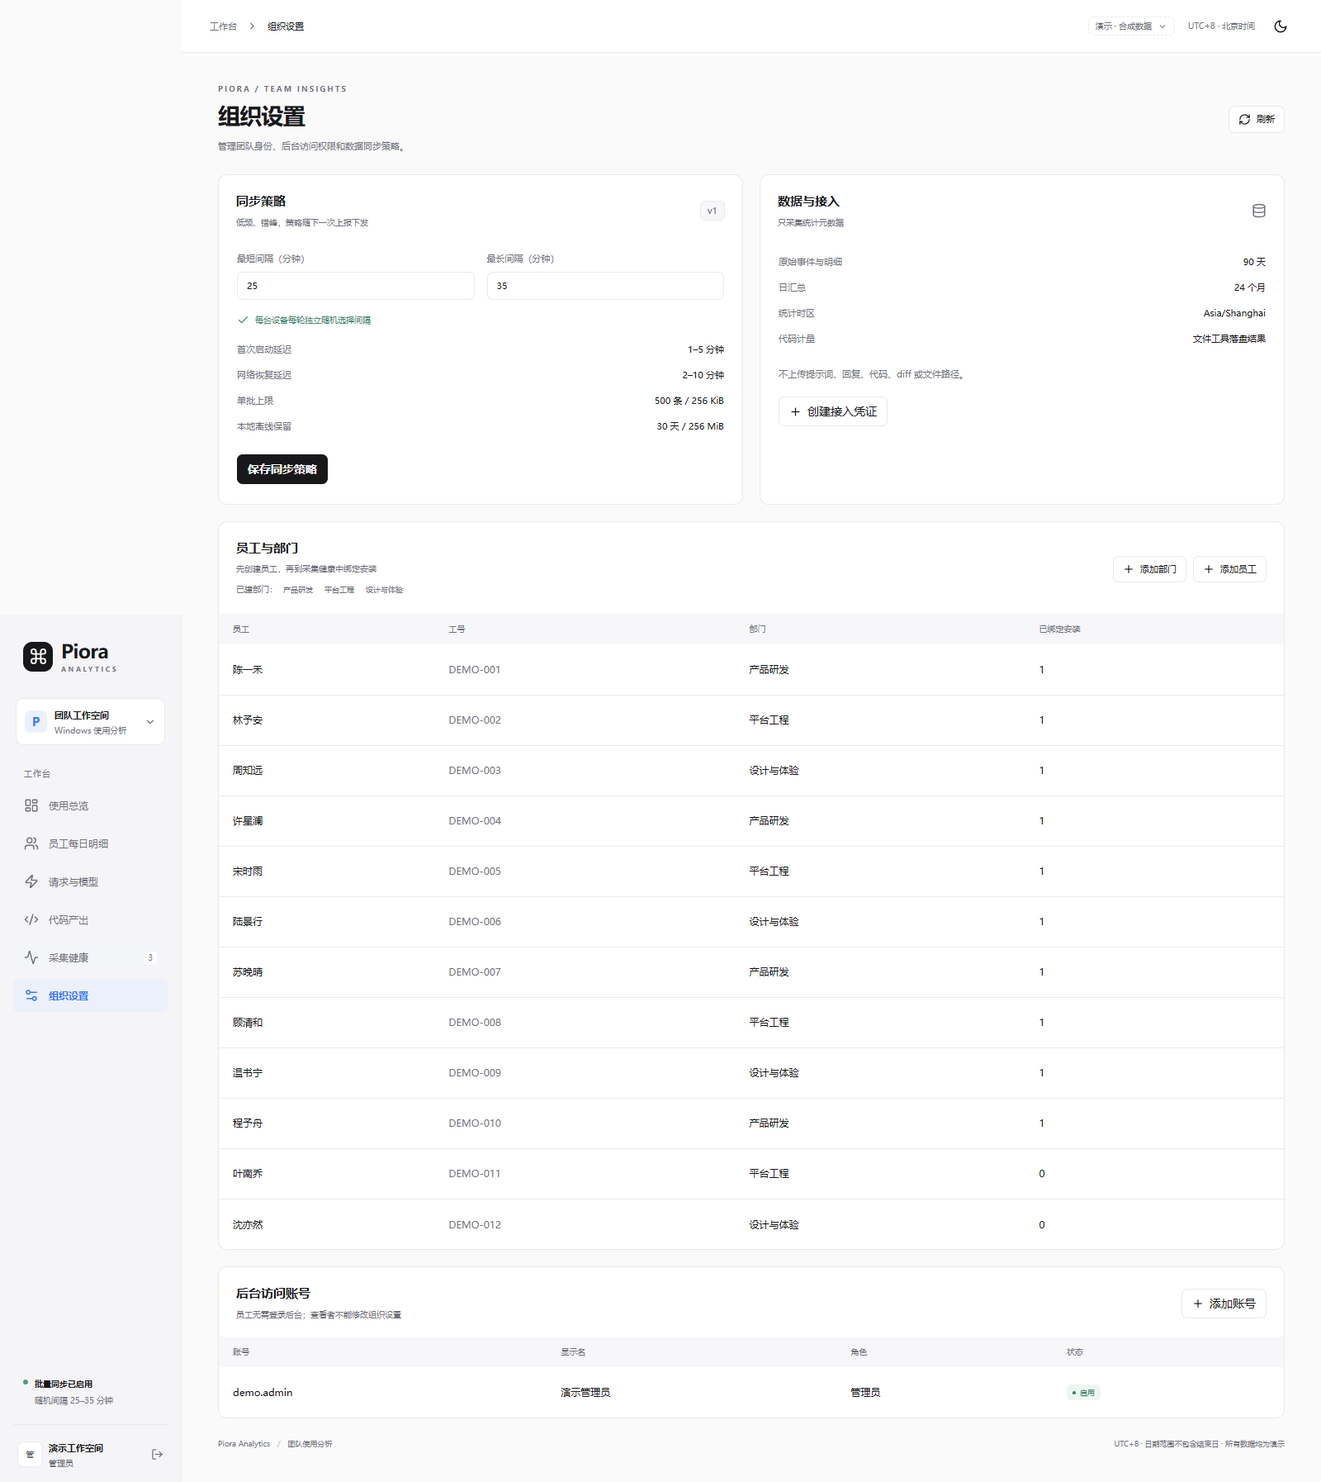
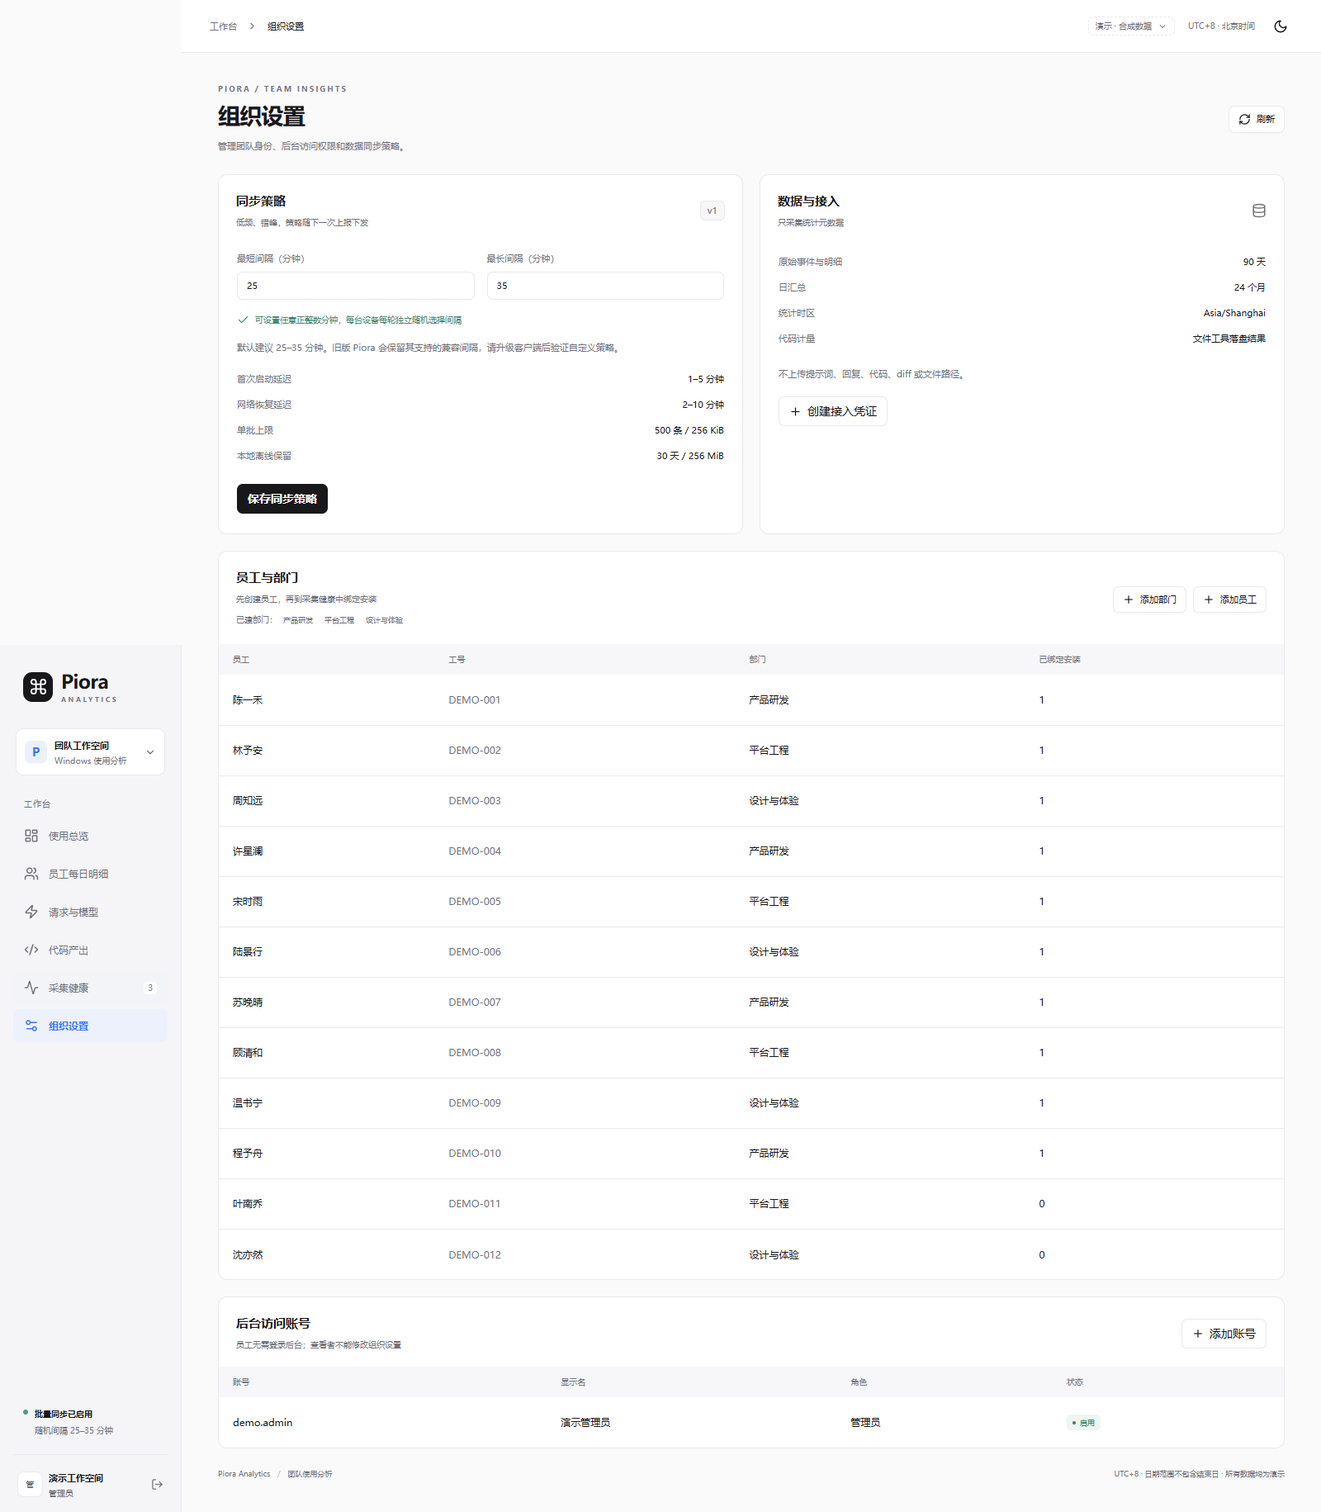
fix: 同步间隔支持任意分钟并显示已保存策略
移除固定同步范围，按客户端能力兼容下发；规则、HTTP/PG、浏览器、类型与构建检查通过。

diff --git a/apps/dashboard/src/App.tsx b/apps/dashboard/src/App.tsx
@@ -233,6 +233,7 @@ export default function App() {
     [bind, setBind] = useState<S["Installation"] | null>(null),
     [bindEmployee, setBindEmployee] = useState(""),
     [policy, setPolicy] = useState<S["SyncPolicy"] | null>(null),
+    [appliedPolicy, setAppliedPolicy] = useState<S["SyncPolicy"] | null>(null),
     [accounts, setAccounts] = useState<S["AdminUser"][]>([]),
     [newForm, setNewForm] = useState(""),
     [newName, setNewName] = useState(""),
@@ -325,17 +326,38 @@ export default function App() {
     };
   }, [me, params, baseParams, cursor, refresh]);
   useEffect(() => {
+    if (!me || me.must_change_password || !admin) return;
+    let live = true;
+    api<Envelope<S["SyncPolicy"]>>("/v1/admin/settings/sync")
+      .then(({ data }) => {
+        if (live)
+          setAppliedPolicy((current) =>
+            !current || data.version > current.version ? data : current,
+          );
+      })
+      .catch((e) => {
+        if (live) setError(e.message);
+      });
+    return () => {
+      live = false;
+    };
+  }, [me, admin, refresh]);
+  useEffect(() => {
+    if (page === "settings") setPolicy(appliedPolicy);
+  }, [appliedPolicy, page]);
+  useEffect(() => {
     if (me && !me.must_change_password && admin && page === "settings")
-      Promise.all([
-        api<Envelope<S["SyncPolicy"]>>("/v1/admin/settings/sync"),
-        api<Envelope<S["AdminUserPage"]>>("/v1/admin/accounts"),
-      ])
-        .then(([p, a]) => {
-          setPolicy(p.data);
+      api<Envelope<S["AdminUserPage"]>>("/v1/admin/accounts")
+        .then((a) => {
           setAccounts(a.data.items);
         })
         .catch((e) => setError(e.message));
   }, [me, admin, page, refresh]);
+  const syncInterval = appliedPolicy
+    ? `${appliedPolicy.interval_min_seconds / 60}–${appliedPolicy.interval_max_seconds / 60} 分钟`
+    : admin
+      ? "读取中"
+      : "按组织策略";
   const notify = (message: string) => setToast(message);
   async function showPerson(id: string) {
     try {
@@ -740,8 +762,22 @@ export default function App() {
           <div className="sync-mini">
             <span className="live-dot" />
             <div>
-              <strong>批量同步已启用</strong>
-              <small>随机间隔 25–35 分钟</small>
+              <strong>
+                {appliedPolicy?.enabled
+                  ? "批量同步已启用"
+                  : appliedPolicy
+                    ? "组织采集已暂停"
+                    : admin
+                      ? "正在读取同步策略"
+                      : "设备批量同步"}
+              </strong>
+              <small>
+                {appliedPolicy
+                  ? `随机间隔 ${syncInterval}`
+                  : admin
+                    ? "正在读取间隔"
+                    : "由管理员配置同步间隔"}
+              </small>
             </div>
           </div>
           <button
@@ -1425,7 +1461,7 @@ export default function App() {
                         <h2>安装实例与同步状态</h2>
                         <p>Windows 账号仅是匹配线索，管理员确认后绑定员工</p>
                       </div>
-                      <span className="pill">每 25–35 分钟</span>
+                      <span className="pill">{appliedPolicy ? `组织策略 ${syncInterval}` : "按组织策略同步"}</span>
                     </div>
                     <div className="table-wrap">
                       <table>
@@ -1543,6 +1579,26 @@ export default function App() {
                           onSubmit={async (e) => {
                             e.preventDefault();
                             if (!policy) return;
+                            if (
+                              ![
+                                policy.interval_min_seconds,
+                                policy.interval_max_seconds,
+                              ].every(
+                                (seconds) =>
+                                  Number.isSafeInteger(seconds / 60) &&
+                                  seconds > 0,
+                              )
+                            ) {
+                              notify("请输入大于 0 的整数分钟");
+                              return;
+                            }
+                            if (
+                              policy.interval_max_seconds <
+                              policy.interval_min_seconds
+                            ) {
+                              notify("最长同步间隔不能小于最短同步间隔");
+                              return;
+                            }
                             try {
                               const result = await api<
                                 Envelope<S["SyncPolicy"]>
@@ -1559,6 +1615,7 @@ export default function App() {
                                 "PATCH",
                               );
                               setPolicy(result.data);
+                              setAppliedPolicy(result.data);
                               notify(
                                 isDemo
                                   ? "演示策略已保存（不会发送到真实设备）"
@@ -1575,11 +1632,13 @@ export default function App() {
                               <input
                                 aria-label="最短同步间隔"
                                 type="number"
-                                min={25}
-                                max={120}
-                                value={Math.round(
-                                  (policy?.interval_min_seconds ?? 1500) / 60,
-                                )}
+                                min={1}
+                                step={1}
+                                required
+                                disabled={!policy}
+                                value={
+                                  (policy?.interval_min_seconds ?? 1500) / 60
+                                }
                                 onChange={(e) =>
                                   setPolicy((p) =>
                                     p
@@ -1598,11 +1657,13 @@ export default function App() {
                               <input
                                 aria-label="最长同步间隔"
                                 type="number"
-                                min={35}
-                                max={120}
-                                value={Math.round(
-                                  (policy?.interval_max_seconds ?? 2100) / 60,
-                                )}
+                                min={1}
+                                step={1}
+                                required
+                                disabled={!policy}
+                                value={
+                                  (policy?.interval_max_seconds ?? 2100) / 60
+                                }
                                 onChange={(e) =>
                                   setPolicy((p) =>
                                     p
@@ -1619,8 +1680,12 @@ export default function App() {
                           </div>
                           <div className="setting-note">
                             <Check size={15} />
-                            每台设备每轮独立随机选择间隔
+                            可设置任意正整数分钟，每台设备每轮独立随机选择间隔
                           </div>
+                          <p className="muted">
+                            默认建议 25–35 分钟。旧版 Piora
+                            会保留其支持的兼容间隔，请升级客户端后验证自定义策略。
+                          </p>
                           <div className="key-values">
                             <span>
                               首次启动延迟<strong>1–5 分钟</strong>
@@ -1635,7 +1700,11 @@ export default function App() {
                               本地离线保留<strong>30 天 / 256 MiB</strong>
                             </span>
                           </div>
-                          <button className="primary" type="submit">
+                          <button
+                            className="primary"
+                            type="submit"
+                            disabled={!policy}
+                          >
                             保存同步策略
                           </button>
                         </form>

diff --git a/tests/ui/real-api.spec.ts b/tests/ui/real-api.spec.ts
@@ -49,6 +49,49 @@ test("真实浏览器登录、Cookie/CSRF、组织管理与报表 API", async ({
       page.getByRole("heading", { name: "使用总览", exact: true }),
     ).toBeVisible();
     await page.getByRole("button", { name: "组织设置", exact: true }).click();
+    const minSync = page.getByLabel("最短同步间隔"),
+      maxSync = page.getByLabel("最长同步间隔");
+    await expect(minSync).toHaveValue("25");
+    await minSync.fill("5");
+    await maxSync.fill("15");
+    await expect(page.locator(".sync-mini")).toContainText(
+      "随机间隔 25–35 分钟",
+    );
+    await page
+      .getByRole("button", { name: "保存同步策略", exact: true })
+      .click();
+    await expect(page.locator(".sync-mini")).toContainText(
+      "随机间隔 5–15 分钟",
+    );
+    await page.reload();
+    await page.getByRole("button", { name: "组织设置", exact: true }).click();
+    await expect(minSync).toHaveValue("5");
+    await expect(maxSync).toHaveValue("15");
+    await minSync.fill("180");
+    await maxSync.fill("1440");
+    await page
+      .getByRole("button", { name: "保存同步策略", exact: true })
+      .click();
+    await expect(page.locator(".sync-mini")).toContainText(
+      "随机间隔 180–1440 分钟",
+    );
+    await minSync.fill("20");
+    await maxSync.fill("5");
+    await page
+      .getByRole("button", { name: "保存同步策略", exact: true })
+      .click();
+    await expect(page.locator(".toast")).toContainText(
+      "最长同步间隔不能小于最短同步间隔",
+    );
+    await expect(page.locator(".sync-mini")).toContainText(
+      "随机间隔 180–1440 分钟",
+    );
+    await minSync.fill("1");
+    await maxSync.fill("1");
+    await page
+      .getByRole("button", { name: "保存同步策略", exact: true })
+      .click();
+    await expect(page.locator(".sync-mini")).toContainText("随机间隔 1–1 分钟");
     await page.getByRole("button", { name: "添加部门", exact: true }).click();
     await page.getByRole("dialog").getByLabel("名称").fill("浏览器创建部门");
     await page

diff --git a/packages/contracts/src/api.generated.ts b/packages/contracts/src/api.generated.ts
@@ -852,12 +852,12 @@ export interface components {
             /** @description 组织采集是否启用 */
             enabled: boolean;
             /**
-             * @description 正常同步最小间隔
+             * @description 正常同步最小间隔，正整数秒；后台可设置任意正整数分钟
              * @default 1500
              */
             interval_min_seconds: number;
             /**
-             * @description 正常同步最大间隔
+             * @description 正常同步最大间隔，不小于最小间隔；不设业务时间上限
              * @default 2100
              */
             interval_max_seconds: number;
@@ -2979,6 +2979,7 @@ export interface operations {
         parameters: {
             query?: never;
             header: {
+                "X-Piora-Capabilities"?: string;
                 "Idempotency-Key": string;
             };
             path?: never;
@@ -3267,7 +3268,9 @@ export interface operations {
     ingestBatch: {
         parameters: {
             query?: never;
-            header?: never;
+            header?: {
+                "X-Piora-Capabilities"?: string;
+            };
             path?: never;
             cookie?: never;
         };

diff --git a/apps/dashboard/vite.config.ts b/apps/dashboard/vite.config.ts
@@ -1,3 +1,4 @@
 import { defineConfig } from 'vite';
 import react from '@vitejs/plugin-react';
-export default defineConfig({ plugins: [react()], server:{proxy:{'/v1':'http://127.0.0.1:4319','/health':'http://127.0.0.1:4319'}}, build: { chunkSizeWarningLimit: 1500 } });
+const apiOrigin = process.env.ANALYTICS_DEV_API_ORIGIN || 'http://127.0.0.1:4319';
+export default defineConfig({ plugins: [react()], server:{proxy:{'/v1':apiOrigin,'/health':apiOrigin}}, build: { chunkSizeWarningLimit: 1500 } });

diff --git a/docs/sync-protocol.md b/docs/sync-protocol.md
@@ -1,12 +1,12 @@
 # Windows 采集与同步协议
 
-协议 1.0。采集频率与网络同步频率分离：本地事件即时持久化，活动每 5 秒采样、每 60 秒合并；网络正常 25–35 分钟一轮。
+协议 1.0。采集频率与网络同步频率分离：本地事件即时持久化，活动每 5 秒采样、每 60 秒合并；网络默认建议 25–35 分钟一轮。管理员可设置任意正整数分钟，无固定业务时间上限；只要求正值、最长不小于最短，且数值与截止时间可安全表示。
 
 ## 调度参数与算法
 
 | 场景 | 行为 |
 |---|---|
-| 每轮正常上传结束 | CSPRNG uniform(1500,2100) 秒，持久化 next_due_at |
+| 每轮正常上传结束 | CSPRNG uniform(interval_min_seconds, interval_max_seconds)，持久化 next_due_at；默认 1500–2100 秒 |
 | 首次注册 | 启动后随机 60–300 秒，注册成功后开始常规周期 |
 | 退出再启动、next_due_at 未到 | 继续原截止时间，不能每次启动都刷新为 30 分钟以后 |
 | 截止时间已过 / 从未上传 | 启动后随机 60–300 秒补传 |
@@ -25,6 +25,10 @@
 服务端按安装限流（默认 12 批/分钟、突发 20），并设组织总吞吐上限。后台限流按账号/IP；公司 NAT 下不能只按 IP 限制正常终端。超过阈值返回 429，提供 Retry-After。
 
 ## 持久队列与一次性效果
+
+新客户端在注册和每次上报请求头发送 `X-Piora-Capabilities: configurable-sync-interval`，无需重置安装身份。服务端向声明该能力的客户端下发完整组织策略；对未声明能力的旧客户端，将最小间隔兼容到 25–120 分钟、最大间隔兼容到 35–120 分钟，避免旧校验拒绝策略后无法 ACK。管理员查询始终返回原始配置。升级后的下一轮请求会自动取得自定义间隔。
+
+策略中正常间隔是正整数秒，后台表单按正整数分钟输入；不设置业务上的固定时间上下限。数值和截止时间必须可安全表示。超过 Node 单次定时器约 24.8 天的等待分段计时，持久的 `next_due_at` 不变，不提前发起上传。
 
 SQLite WAL；写入 outbox 与分配 event_seq 在同一短事务，source_key UNIQUE，event_id 由稳定业务键派生。发出请求前不删除事件。batch_id 代表一次传输，重新组批可变化，但事件 ID、seq、内容不能变化。拒绝给同一 event_id 重写新内容。
 

diff --git a/docs/api-reference.md b/docs/api-reference.md
@@ -142,6 +142,7 @@
 
 | 参数 | 位置 | 类型 | 必填 | 说明 |
 |---|---|---|---|---|
+| X-Piora-Capabilities | header | string | false | 新客户端发送 configurable-sync-interval，声明支持任意正间隔；未声明时下发旧版兼容范围 |
 | Idempotency-Key | header | string | true | 一次操作一个键；重试保持不变，24 小时内相同键不同内容为冲突 |
 
 请求体：RegisterInput
@@ -241,7 +242,7 @@
 
 | 参数 | 位置 | 类型 | 必填 | 说明 |
 |---|---|---|---|---|
-
+| X-Piora-Capabilities | header | string | false | 新客户端发送 configurable-sync-interval，声明支持任意正间隔；未声明时下发旧版兼容范围 |
 
 请求体：BatchInput
 
@@ -2084,8 +2085,8 @@
 |---|---|---|---|---|
 | version | integer | true | {"minimum":0,"maximum":1000000} | 策略版本 |
 | enabled | boolean | true | {} | 组织采集是否启用 |
-| interval_min_seconds | integer | true | {"minimum":1500,"maximum":7200,"default":1500} | 正常同步最小间隔 |
-| interval_max_seconds | integer | true | {"minimum":2100,"maximum":7200,"default":2100} | 正常同步最大间隔 |
+| interval_min_seconds | integer | true | {"minimum":1,"default":1500} | 正常同步最小间隔，正整数秒；后台可设置任意正整数分钟 |
+| interval_max_seconds | integer | true | {"minimum":1,"default":2100} | 正常同步最大间隔，不小于最小间隔；不设业务时间上限 |
 | initial_delay_min_seconds | integer | true | {"minimum":0,"maximum":600,"default":60} | 首次/逾期启动最小抖动 |
 | initial_delay_max_seconds | integer | true | {"minimum":0,"maximum":600,"default":300} | 首次/逾期启动最大抖动 |
 | reconnect_min_seconds | integer | true | {"minimum":0,"maximum":1800,"default":120} | 网络恢复最小抖动 |

diff --git a/docs/piora-implementation.md b/docs/piora-implementation.md
@@ -30,7 +30,7 @@ API/Worker 与客户端事件契约在后端仓库维护。客户端只上传统
 
 ## 同步与恢复
 
-- 每轮独立随机 25–35 分钟；首次 1–5 分钟，休眠恢复 2–10 分钟，网络错误指数退避和抖动。没有逐 Query 网络上传或整点全员同步。
+- 每轮按组织保存的范围独立随机，默认建议 25–35 分钟，可设置任意正整数分钟；首次 1–5 分钟，休眠恢复 2–10 分钟，网络错误指数退避和抖动。没有逐 Query 网络上传或整点全员同步。
 - 单批最多 500 条/256 KiB；每轮最多 5 批，批间 10–30 秒，剩余积压延后 5–10 分钟。
 - 本地默认保留 30 天/256 MiB；超限丢最老数据并报告缺口。只在完整、无陌生 ID 的服务端 ACK 后移除本地事件。源键 receipt 默认保留 90 天，避免 journal 重放重复。
 - 设备秘密先 DPAPI 持久保存再请求注册/轮换，注册响应丢失仍保有秘密；401/403 暂停上传并显示状态，不自动重新注册绕过撤销。

diff --git a/docs/ui/design.md b/docs/ui/design.md
@@ -9,7 +9,7 @@
 | 请求与模型 | 哪些模型耗用 Token，Query 产生哪些调用 | 模型占比、缓存桶、未知用量、Query 详情 |
 | 代码产出 | 文件工具实际增加/删除多少行 | 语言与类别分布、可计量覆盖提示 |
 | 采集健康 | 数据新鲜度、未绑定安装、积压 | 确认安装归属、生效日期、质量提示 |
-| 组织设置 | 如何接入和授权 | 员工/部门/后台账号创建、25–35 分钟策略、接入密钥 |
+| 组织设置 | 如何接入和授权 | 员工/部门/后台账号创建、任意正整数分钟同步策略、接入密钥；25–35 分钟仅为默认建议 |
 
 加载、错误/重试、空结果、只读角色均有独立状态；未知 Token 用“—”并说明覆盖，员工尚未报告不能被显示成实际使用零。最后收到时间不叫“在线”。导出只读角色可用，管理变更由服务端鉴权；前端隐藏按钮不能代替权限检查。
 

diff --git a/docs/verification.md b/docs/verification.md
@@ -1,5 +1,7 @@
 # 本地验证记录
 
+2026-11-14 可配置同步间隔回归：9 项后端规则测试、完整 API + 独立 PostgreSQL 回归、两项浏览器场景和 React 类型检查通过。浏览器实际保存 5–15、180–1440、1–1 分钟并刷新恢复，倒置范围不能保存；旧客户端继续通过兼容策略上传。Piora 17 项相关测试与 desktop 类型检查通过。首次 HTTP 回归发现上报处理未转交能力请求头，补齐后通过；首次页面回归发现策略尚未加载就可编辑导致输入丢失，修正加载状态后通过。浏览器 API 使用隔离端口，未占用正在运行的本机联调服务。没有将当前 beta.5 记为支持新范围的新客户端。
+
 日期：2026-11-13 至 2026-11-14；Windows 开发机，Node.js 24.5.0。测试数据全部合成，没有读取或上传真实员工会话。
 
 | 检查 | 实际结果 / 范围 |

diff --git a/docs/implementation-status.md b/docs/implementation-status.md
@@ -1,5 +1,7 @@
 # 实现范围与上线边界
 
+2026-11-14 补充：同步策略表单允许任意正整数分钟，移除原先 25/35/120 分钟的业务边界；已保存的间隔与未保存输入分开，侧栏和采集健康显示组织实际策略。客户端通过可选能力请求头声明新范围支持，未声明的旧客户端收到兼容范围；新安装包升级仍以实际发布状态为准。
+
 本交付已从设计推进到代码。以下是当前实现事实；验收矩阵中更广泛的场景仍是后续试点要求。
 
 | 部分 | 已实现 | 验证边界 |

diff --git a/docs/architecture.md b/docs/architecture.md
@@ -6,7 +6,7 @@
 flowchart LR
   E[Windows Electron 主进程] --> Q[(本地 SQLite WAL)]
   N[Piora Node 模型/工具/命令管线] --> Q
-  Q --> U[单一上传器: 随机 25–35 分钟]
+  Q --> U[单一上传器: 按组织策略随机间隔，默认 25–35 分钟]
   U -->|TLS: 事件批次| A[Node.js API]
   A -->|一个事务| P[(PostgreSQL 18)]
   P --> W[独立 Worker]
